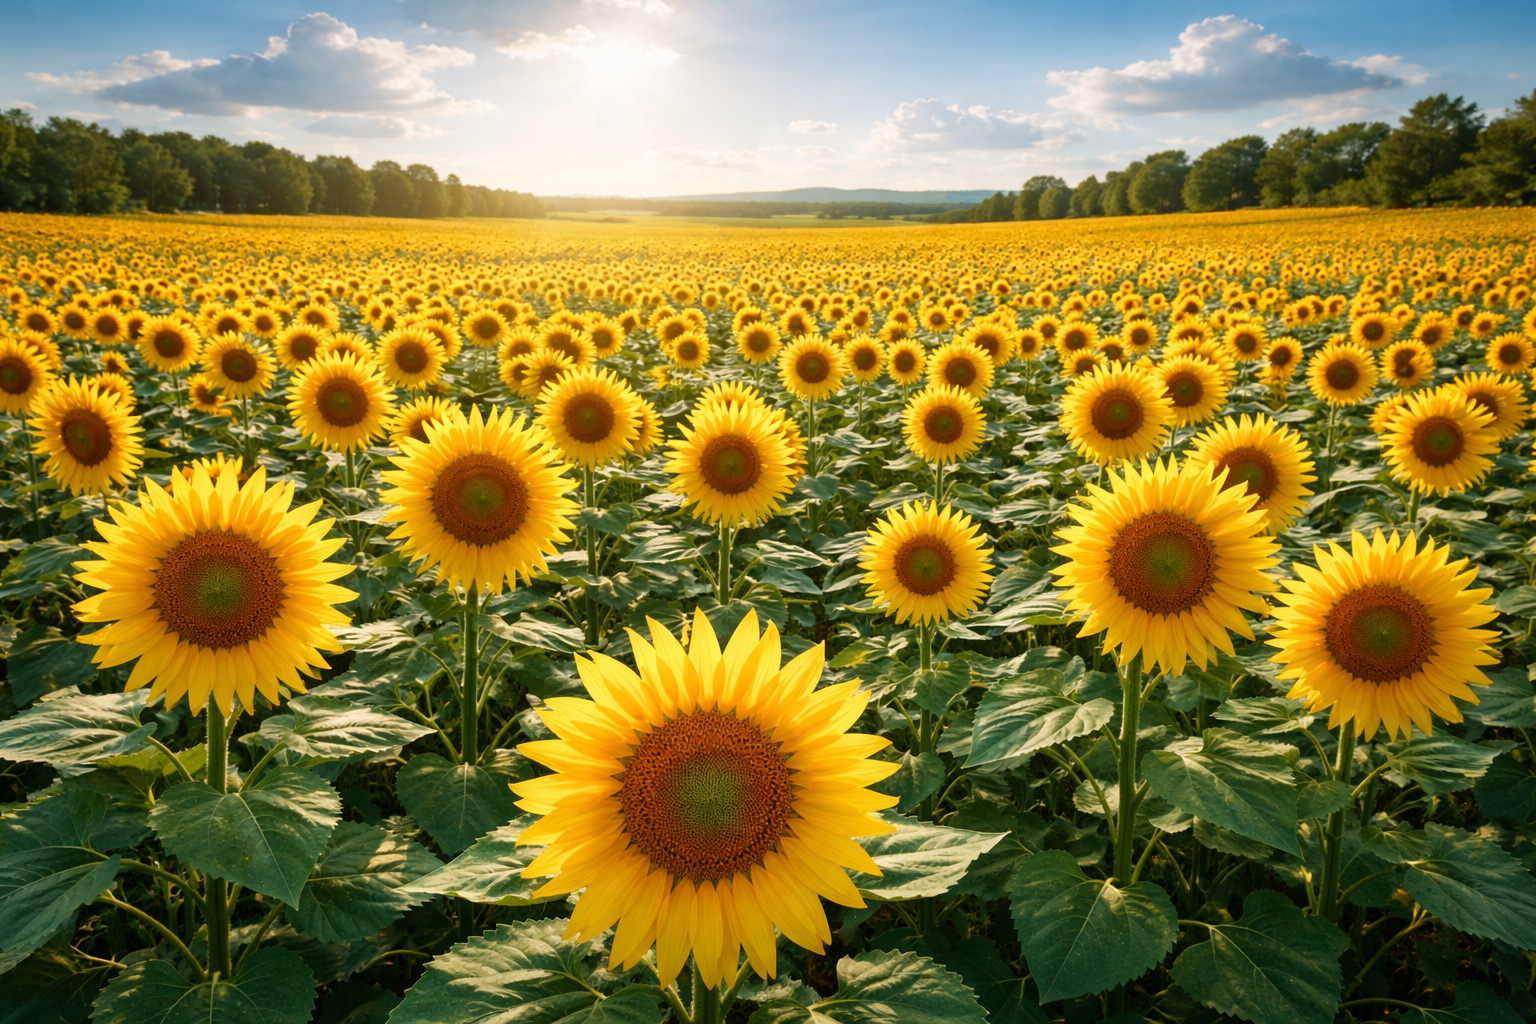
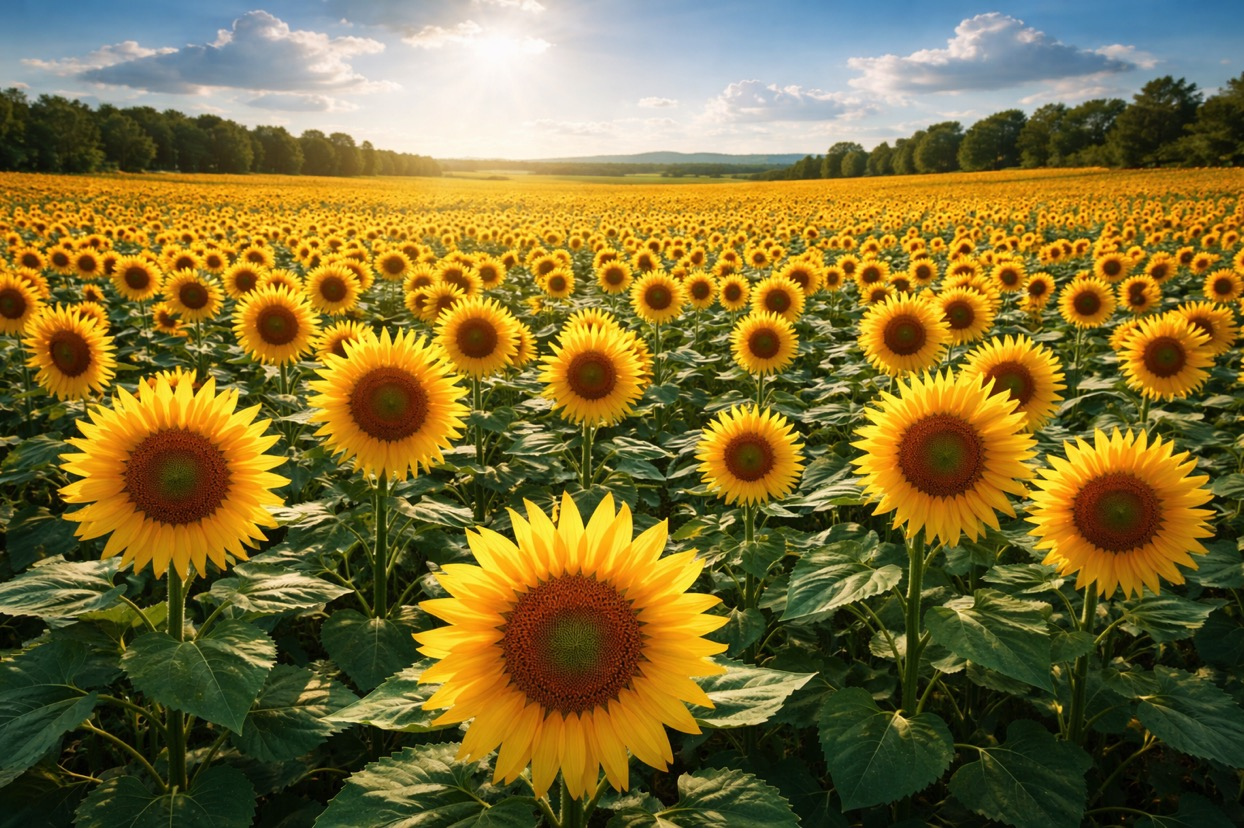
Update seed image and add demo link to README
- Replace default.png with new source image (1244x828)
- Add live demo URL to README
- Adjust aspect ratio to 3:2 to match new image dimensions
- Gitignore source.jpeg working file

diff --git a/templates/index.html b/templates/index.html
@@ -29,7 +29,7 @@
         .image-wrapper {
             position: relative;
             width: 100%;
-            aspect-ratio: 4 / 3;
+            aspect-ratio: 3 / 2;
             max-height: 75vh;
             background: #000;
             border: 1px solid #111;

diff --git a/README.md b/README.md
@@ -2,6 +2,8 @@
 
 A web app that slowly destroys an image with every single page view. After 1024 views, the image is completely black.
 
+**[Live Demo](http://kog48gc4kkck4cskocc8gc04.91.99.28.32.sslip.io/)**
+
 ## How it works
 
 Every time someone opens the page, the displayed image is degraded one step further. The destruction is permanent and cumulative — each view applies darkening, glitch effects, and digital corruption that stack on top of previous damage.
@@ -44,6 +46,8 @@ Open http://localhost:5001 and start refreshing.
 ## Deploy
 
 The app includes a `Procfile` for Nixpacks/Coolify deployment. The seed image (`images/default.png`) is bundled in the repo. Runtime state (`source.png`, `original.png`, `snapshots/`, `state.json`) is gitignored.
+
+Add `numpy` to your requirements if not already present (`pip install -r requirements.txt`).
 
 ## State persistence
 
